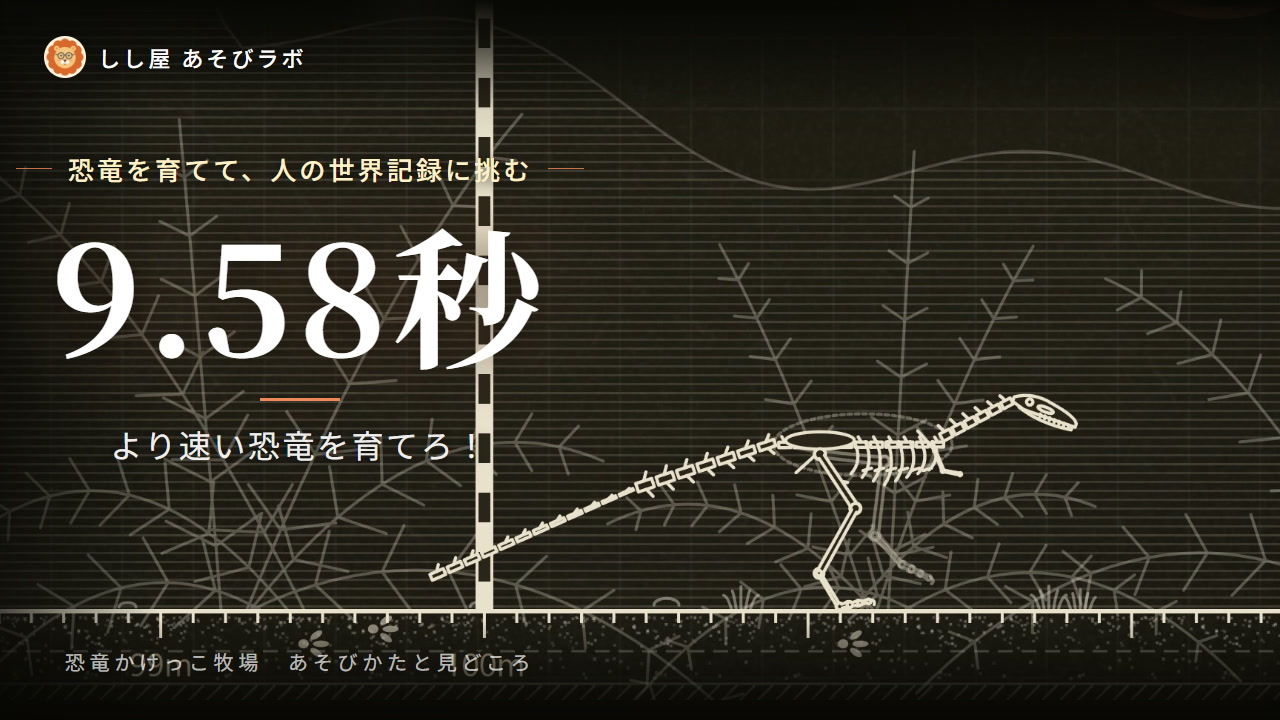
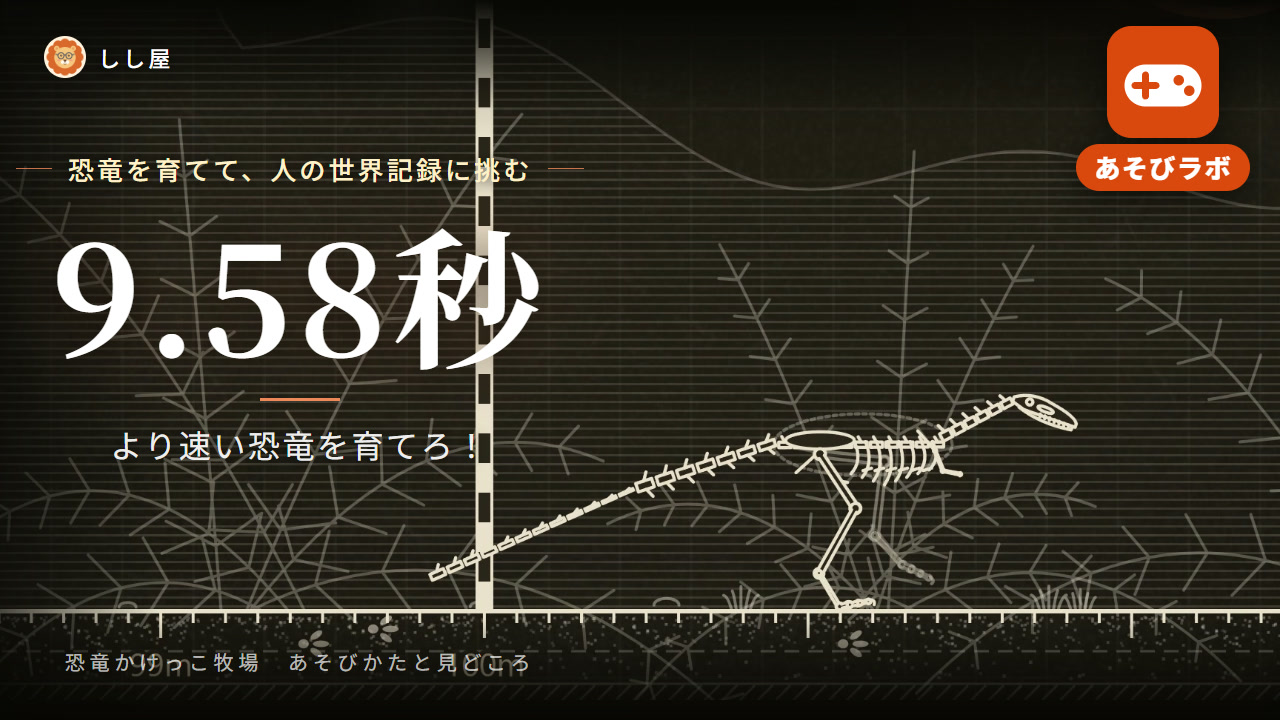
紹介動画: サムネイルの右上にあそびラボの札（オレンジの角丸のコントローラー＋あそびラボ）。恐竜かけっこ牧場の2枚を作りなおした

Changed region(s): [[0.8438, 0.0306, 1.0, 0.275], [0.125, 0.0611, 0.25, 0.0917]]

diff --git a/_dev/promo/short-thumb.html b/_dev/promo/short-thumb.html
@@ -49,13 +49,23 @@
   body.wide #big::after { width: 80px; margin-top: 20px; }
   body.wide #sub { margin-top: 20px; font-size: 32px; }
   body.wide #name { left: 0; right: auto; width: 600px; bottom: 44px; font-size: 20px; }
+  /* あそびラボの札（2026-10-19 ユーザー「人目であそびラボっぽいとわかる」「とおめでもゲーム系だとわかりやすい」）: 右上に、入口のファビコンと同じ
+     オレンジの角丸＋白いゲームのコントローラーを大きく、下に「あそびラボ」。左上はチャンネル（しし屋のライオン）だけにする */
+  #asobi { position: absolute; right: 48px; top: 150px;   /* ショートの棚では右上のすみに YouTube の「⋮」が重なるので少し下げる */ display: flex; flex-direction: column; align-items: center; gap: 10px;
+    filter: drop-shadow(0 6px 18px rgba(0,0,0,0.55)); }
+  #asobi svg { width: 200px; height: 200px; display: block; }
+  #asobi b { font-size: 46px; font-weight: 800; letter-spacing: 0.06em; color: #fff; background: #d9480f; border-radius: 999px; padding: 6px 26px 8px; }
+  body.wide #asobi { right: 30px; top: 26px; gap: 6px; }
+  body.wide #asobi svg { width: 112px; height: 112px; }
+  body.wide #asobi b { font-size: 26px; padding: 4px 18px 6px; }
 </style>
 </head>
 <body>
 <img id="bg2" alt=""><img id="bg" alt="">
 <div id="shade"></div>
 <div id="panel"></div>
-<div id="brand"><img src="../sns-icon/a-lion-glasses.png" alt="">しし屋 あそびラボ</div>
+<div id="asobi"><svg viewBox="0 0 64 64" aria-hidden="true"><rect width="64" height="64" rx="14" fill="#d9480f"/><rect x="10" y="22" width="44" height="24" rx="12" fill="#fff"/><path d="M22 28v12M16 34h12" stroke="#d9480f" stroke-width="4" stroke-linecap="round"/><circle cx="41" cy="31" r="3" fill="#d9480f"/><circle cx="47" cy="37" r="3" fill="#d9480f"/></svg><b>あそびラボ</b></div>
+<div id="brand"><img src="../sns-icon/a-lion-glasses.png" alt="">しし屋</div>
 <div id="text"><div id="kicker"></div><div id="big"></div><div id="sub"></div></div>
 <div id="name"></div>
 <script>

diff --git a/_dev/promo/README.md b/_dev/promo/README.md
@@ -29,7 +29,7 @@
 - 録画（サーバー `games` を起動して、リポジトリのルートで）:
   `powershell -NoProfile -ExecutionPolicy Bypass -File _dev/tools/record-promo.ps1 -Script dino-race -Short`
   `powershell -NoProfile -ExecutionPolicy Bypass -File _dev/tools/record-promo.ps1 -Script dino-race-guide`
-- サムネイル: `short-thumbs.js` の `dino-race`（ゴールの線をこえるラプトル 4号に「9.58秒 より速い恐竜を育てろ！」）。説明動画の名前は `wname`「あそびかたと見どころ」。
+- サムネイル: `short-thumbs.js` の `dino-race`（ゴールの線をこえるラプトル 4号に「9.58秒 より速い恐竜を育てろ！」）。説明動画の名前は `wname`「あそびかたと見どころ」。右上にあそびラボの札（入口のファビコンと同じオレンジの角丸＋白いゲームのコントローラー、下に「あそびラボ」。2026-10-19 ユーザー「人目であそびラボっぽいとわかる」「とおめでもゲーム系だとわかりやすい」）。左上はチャンネルの「しし屋」だけ。札は `short-thumb.html` の `#asobi` なので、あそびラボのサムネイル全部に付く（果ての滝の箱庭は作りなおしたら付く）。ショートは右上のすみに YouTube の「⋮」が重なるので少し下げた。
 - YouTube の下書き: `dino-race-short.upload.json`・`dino-race-guide.upload.json`（説明欄に「しし屋 まなびラボの姉妹サイト」とまなびラボへのリンク）。**予約 2026-10-23（木）説明動画 19:00・ショート 19:05**（ユーザーが決めた。12本の締めの日の空き枠、20:00〜20:15 はさけた）。上げるのはユーザーの GO のあと。
 
 ## 果ての滝の箱庭（2026-10-13）
